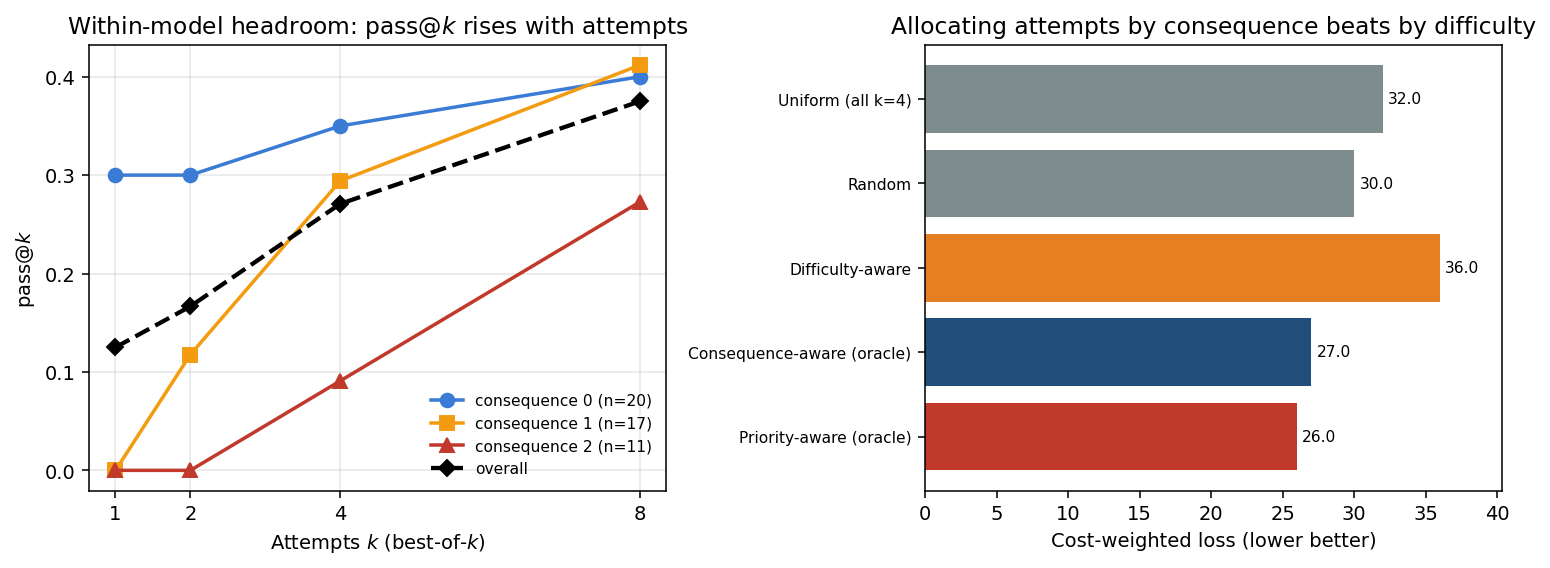
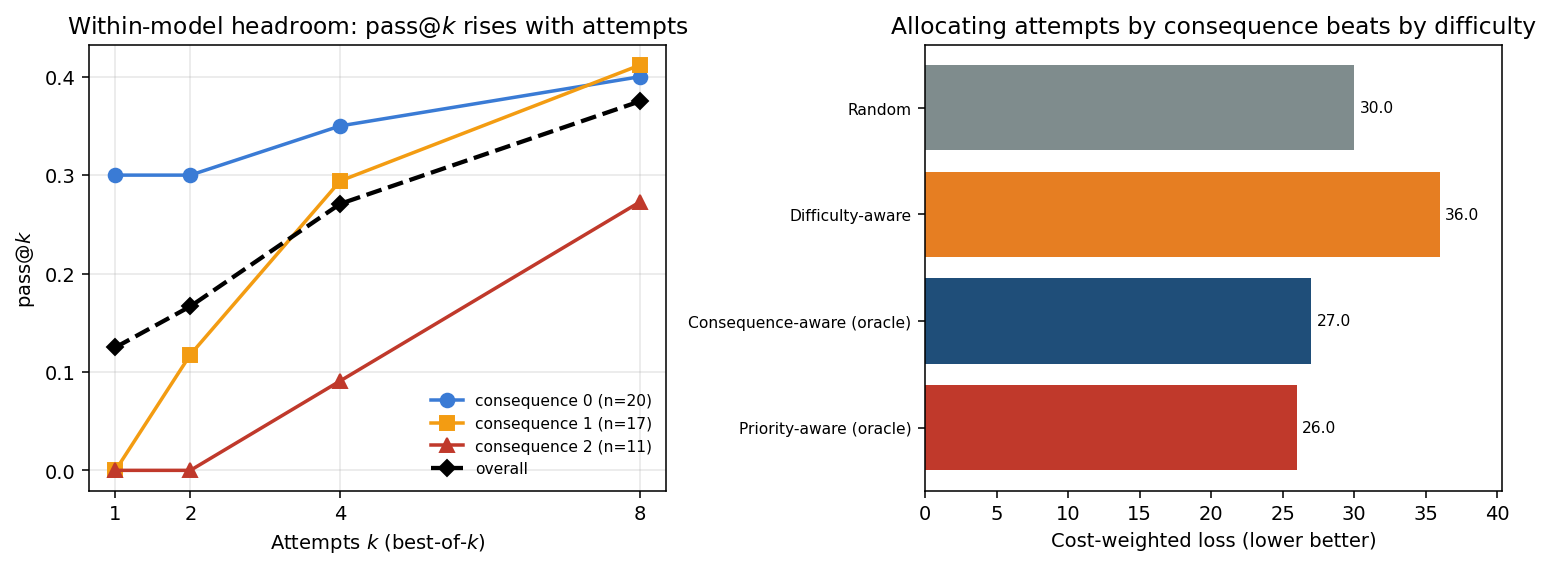
Fix within-model allocation: matched 216-attempt budget + drop unmatched Uniform
Two corrections to the within-model appendix:

1. Matched compute. All strategies now allocate exactly 216 attempts
   (24 tasks at best-of-8 + 24 at a single attempt). The previous
   "Uniform (all k=4)" row used only 48*4 = 192 attempts, so it was NOT
   a matched-compute comparison and is removed. Random now serves as the
   uniform-random baseline. Difficulty 36.0 (baseline, worse than random),
   Random 30.0 (+16.7%), Consequence 27.0 (+25.0%), Priority 26.0 (+27.8%).

2. Oracle best-of-k stated explicitly. best-of-k success = "at least one
   of the k attempts passes the judge", i.e. assumes an oracle verifier
   (pass@k upper bound), consistent with the oracle consequence labels in
   the main experiment. Spelled out in setup paragraph and table caption.

Updated table, both captions, regenerated fig_within (4 bars).
Applied identically to main.tex and preprint.tex (bodies still match).

diff --git a/main.tex b/main.tex
@@ -1076,8 +1076,12 @@ We sample $60$ SWE-bench Lite tasks stratified by consequence and draw
 $8$ independent attempts per task; $48$ tasks ($20$/$17$/$11$ across
 classes $0$/$1$/$2$) received the full $8$ attempts and are used
 here. Each attempt is graded by the same LLM-judge as the main text.
-Compute is the number of attempts $k$, and best-of-$k$ success is
-``at least one of the first $k$ attempts is correct.''
+Compute is the number of attempts $k$. Following the oracle setup
+of the main experiments, best-of-$k$ success means ``at least one of
+the first $k$ attempts passes the judge,'' i.e. we assume an oracle
+verifier that selects a passing attempt when one exists; this is the
+$\mathrm{pass@}k$ upper bound on what attempt-based compute can
+achieve.
 
 \paragraph{Attempts is a real compute lever.} Best-of-$k$ pass rate
 rises from $\mathrm{pass@}1 = 0.125$ to $\mathrm{pass@}8 = 0.375$
@@ -1093,9 +1097,12 @@ compute helps least --- the within-model echo of the
 $\rho = -0.78$ result of \S\ref{sec:whyfail}.
 
 \paragraph{Consequence-aware allocation wins, model held fixed.}
-We allocate a fixed total attempts budget across the $48$ tasks ---
-half the tasks receive best-of-$8$, half receive a single attempt ---
-under each routing strategy, and measure cost-weighted loss
+We allocate a fixed total budget of $216$ attempts across the $48$
+tasks identically for every strategy: the top half of tasks (by the
+strategy's score) receive best-of-$8$ and the remaining half receive
+a single attempt ($24{\times}8 + 24{\times}1 = 216$). The strategies
+differ only in \emph{which} tasks are upgraded; the compute is the
+same. We measure cost-weighted loss
 (Table~\ref{tab:within}, Figure~\ref{fig:within}, right). The ordering
 exactly reproduces the cross-model main result: priority-aware
 ($-27.8\%$) and consequence-aware ($-25.0\%$) routing both
@@ -1111,9 +1118,10 @@ fixed agent.
 \centering
 \caption{\textbf{Within-model allocation} on $48$ SWE-bench Lite tasks
 with a single fixed Claude Sonnet~4.5 agent. Compute is the number of
-attempts (best-of-$k$); a fixed total attempts budget is allocated
-across tasks (half to best-of-$8$, half to a single attempt) under
-each strategy. $\mathcal{L}$ is cost-weighted loss (lower is better);
+oracle best-of-$k$ attempts; the same total budget of $216$ attempts
+($24$ tasks at best-of-$8$ $+$ $24$ at a single attempt) is allocated
+across tasks by each strategy, which differ only in which tasks are
+upgraded. $\mathcal{L}$ is cost-weighted loss (lower is better);
 ``$\Delta$ vs Diff'' is the relative reduction over the
 difficulty-aware baseline.}
 \label{tab:within}
@@ -1123,7 +1131,6 @@ difficulty-aware baseline.}
 Strategy & $\mathcal{L}$ & $\Delta$ vs Diff \\
 \midrule
 Difficulty-aware             & $36.0$ & ~~$0\%$ baseline \\
-Uniform (all $k{=}4$)        & $32.0$ & $+11.1\%$ \\
 Random                       & $30.0$ & $+16.7\%$ \\
 Consequence-aware (oracle)   & $27.0$ & $+25.0\%$ \\
 Priority-aware (oracle)      & $\mathbf{26.0}$ & $\mathbf{+27.8\%}$ \\
@@ -1138,7 +1145,7 @@ Priority-aware (oracle)      & $\mathbf{26.0}$ & $\mathbf{+27.8\%}$ \\
 \emph{Left:} best-of-$k$ pass rate rises with the number of attempts,
 giving real within-model compute headroom (overall
 $\mathrm{pass@}1 = 0.125 \to \mathrm{pass@}8 = 0.375$).
-\emph{Right:} at a fixed total attempts budget, allocating attempts by
+\emph{Right:} at a matched total budget of $216$ attempts, allocating attempts by
 consequence (or by priority) reduces cost-weighted loss well below the
 difficulty-aware baseline, which is itself worse than random ---
 reproducing the cross-model main result with the model held fixed.}

diff --git a/preprint.tex b/preprint.tex
@@ -1082,8 +1082,12 @@ We sample $60$ SWE-bench Lite tasks stratified by consequence and draw
 $8$ independent attempts per task; $48$ tasks ($20$/$17$/$11$ across
 classes $0$/$1$/$2$) received the full $8$ attempts and are used
 here. Each attempt is graded by the same LLM-judge as the main text.
-Compute is the number of attempts $k$, and best-of-$k$ success is
-``at least one of the first $k$ attempts is correct.''
+Compute is the number of attempts $k$. Following the oracle setup
+of the main experiments, best-of-$k$ success means ``at least one of
+the first $k$ attempts passes the judge,'' i.e. we assume an oracle
+verifier that selects a passing attempt when one exists; this is the
+$\mathrm{pass@}k$ upper bound on what attempt-based compute can
+achieve.
 
 \paragraph{Attempts is a real compute lever.} Best-of-$k$ pass rate
 rises from $\mathrm{pass@}1 = 0.125$ to $\mathrm{pass@}8 = 0.375$
@@ -1099,9 +1103,12 @@ compute helps least --- the within-model echo of the
 $\rho = -0.78$ result of \S\ref{sec:whyfail}.
 
 \paragraph{Consequence-aware allocation wins, model held fixed.}
-We allocate a fixed total attempts budget across the $48$ tasks ---
-half the tasks receive best-of-$8$, half receive a single attempt ---
-under each routing strategy, and measure cost-weighted loss
+We allocate a fixed total budget of $216$ attempts across the $48$
+tasks identically for every strategy: the top half of tasks (by the
+strategy's score) receive best-of-$8$ and the remaining half receive
+a single attempt ($24{\times}8 + 24{\times}1 = 216$). The strategies
+differ only in \emph{which} tasks are upgraded; the compute is the
+same. We measure cost-weighted loss
 (Table~\ref{tab:within}, Figure~\ref{fig:within}, right). The ordering
 exactly reproduces the cross-model main result: priority-aware
 ($-27.8\%$) and consequence-aware ($-25.0\%$) routing both
@@ -1117,9 +1124,10 @@ fixed agent.
 \centering
 \caption{\textbf{Within-model allocation} on $48$ SWE-bench Lite tasks
 with a single fixed Claude Sonnet~4.5 agent. Compute is the number of
-attempts (best-of-$k$); a fixed total attempts budget is allocated
-across tasks (half to best-of-$8$, half to a single attempt) under
-each strategy. $\mathcal{L}$ is cost-weighted loss (lower is better);
+oracle best-of-$k$ attempts; the same total budget of $216$ attempts
+($24$ tasks at best-of-$8$ $+$ $24$ at a single attempt) is allocated
+across tasks by each strategy, which differ only in which tasks are
+upgraded. $\mathcal{L}$ is cost-weighted loss (lower is better);
 ``$\Delta$ vs Diff'' is the relative reduction over the
 difficulty-aware baseline.}
 \label{tab:within}
@@ -1129,7 +1137,6 @@ difficulty-aware baseline.}
 Strategy & $\mathcal{L}$ & $\Delta$ vs Diff \\
 \midrule
 Difficulty-aware             & $36.0$ & ~~$0\%$ baseline \\
-Uniform (all $k{=}4$)        & $32.0$ & $+11.1\%$ \\
 Random                       & $30.0$ & $+16.7\%$ \\
 Consequence-aware (oracle)   & $27.0$ & $+25.0\%$ \\
 Priority-aware (oracle)      & $\mathbf{26.0}$ & $\mathbf{+27.8\%}$ \\
@@ -1144,7 +1151,7 @@ Priority-aware (oracle)      & $\mathbf{26.0}$ & $\mathbf{+27.8\%}$ \\
 \emph{Left:} best-of-$k$ pass rate rises with the number of attempts,
 giving real within-model compute headroom (overall
 $\mathrm{pass@}1 = 0.125 \to \mathrm{pass@}8 = 0.375$).
-\emph{Right:} at a fixed total attempts budget, allocating attempts by
+\emph{Right:} at a matched total budget of $216$ attempts, allocating attempts by
 consequence (or by priority) reduces cost-weighted loss well below the
 difficulty-aware baseline, which is itself worse than random ---
 reproducing the cross-model main result with the model held fixed.}
